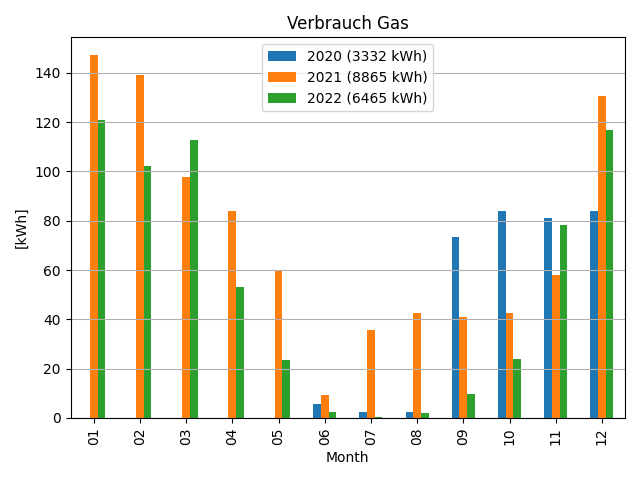
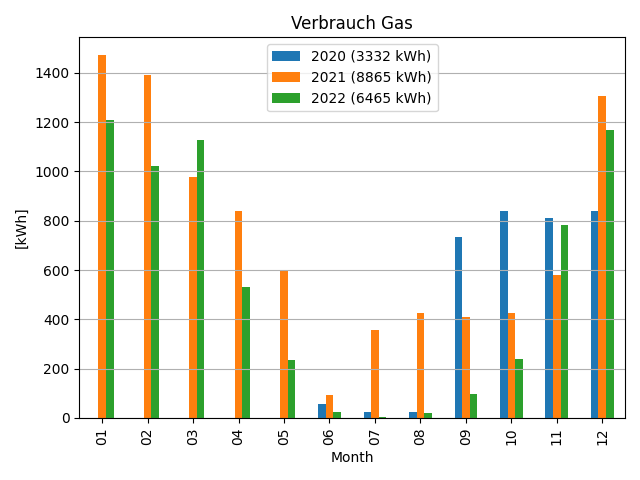
add

diff --git a/energie.py b/energie.py
@@ -1,4 +1,3 @@
-# auth.py
 from __future__ import print_function
 from googleapiclient.discovery import build 
 from google.oauth2 import service_account
@@ -14,9 +13,13 @@ class Energie:
         'https://www.googleapis.com/auth/spreadsheets'
         ]
         self.SAMPLE_SPREADSHEET_ID = '1AUd0lPyr_g6Ml3odYm1fr6nvLRcw8uPiSeZHxuT0N9E'
-        self.SAMPLE_RANGE_NAME = 'A1:D100'
+        self.RANGE_READINGS = 'A1:D100'
+        self.RANGE_PRICES_STROM = 'H2:J20'
+        self.RANGE_PRICES_GAS = 'L2:N20'
+        self.RANGE_PRICES_WASSER = 'P2:R20'
 
-        self.creds_file = os.path.join('.', 'credentials.json')
+        self.creds_file = os.path.join('.', 'energie', 'credentials.json')
+        #self.creds_file = os.path.join('.', 'credentials.json')
         self.plot_dir = os.path.join('.', 'plots')
 
         self.factor_m3_to_kWh = 10
@@ -37,36 +40,76 @@ class Energie:
 
         # Call the Sheets API
         sheet = spreadsheet_service.spreadsheets()
-        result_input = sheet.values().get(spreadsheetId=self.SAMPLE_SPREADSHEET_ID,
-                                    range=self.SAMPLE_RANGE_NAME).execute()
-        values_input = result_input.get('values', [])
+        result_readings = sheet.values().get(spreadsheetId=self.SAMPLE_SPREADSHEET_ID,
+                                    range=self.RANGE_READINGS).execute()
+        values_readings = result_readings.get('values', [])
+        result_prices_strom = sheet.values().get(spreadsheetId=self.SAMPLE_SPREADSHEET_ID,
+                                    range=self.RANGE_PRICES_STROM).execute()
+        values_prices_strom = result_prices_strom.get('values', [])
+        result_prices_gas = sheet.values().get(spreadsheetId=self.SAMPLE_SPREADSHEET_ID,
+                            range=self.RANGE_PRICES_GAS).execute()
+        values_prices_gas = result_prices_gas.get('values', [])
+        result_prices_wasser = sheet.values().get(spreadsheetId=self.SAMPLE_SPREADSHEET_ID,
+                            range=self.RANGE_PRICES_WASSER).execute()
+        values_prices_wasser = result_prices_wasser.get('values', [])
 
         # read as df
-        self.df = pd.DataFrame(values_input[1:], columns=values_input[0])
+        self.df_readings = pd.DataFrame(values_readings[1:], columns=values_readings[0])
+        self.df_prices_strom = pd.DataFrame(values_prices_strom[1:], columns=values_prices_strom[0])
+        self.df_prices_gas = pd.DataFrame(values_prices_gas[1:], columns=values_prices_gas[0])
+        self.df_prices_wasser = pd.DataFrame(values_prices_wasser[1:], columns=values_prices_wasser[0])
 
     def preprocessing(self):
 
         # add columns
-        self.df[['day', 'month', 'year']] = self.df['Datum'].str.split('.', 2, expand=True)
+        self.df_readings[['day', 'month', 'year']] = self.df_readings['Datum'].str.split('.', 2, expand=True)
+        self.df_prices_strom[['day', 'month', 'year']] = self.df_prices_strom['Datum'].str.split('.', 2, expand=True)
+        self.df_prices_gas[['day', 'month', 'year']] = self.df_prices_gas['Datum'].str.split('.', 2, expand=True)
+        self.df_prices_wasser[['day', 'month', 'year']] = self.df_prices_wasser['Datum'].str.split('.', 2, expand=True)
 
         # convert to datetime
-        self.df['datetime'] = pd.to_datetime(self.df[['year', 'month', 'day']])
+        self.df_readings['datetime'] = pd.to_datetime(self.df_readings[['year', 'month', 'day']])
+        self.df_prices_strom['datetime'] = pd.to_datetime(self.df_prices_strom[['year', 'month', 'day']])
+        self.df_prices_gas['datetime'] = pd.to_datetime(self.df_prices_gas[['year', 'month', 'day']])
+        self.df_prices_wasser['datetime'] = pd.to_datetime(self.df_prices_wasser[['year', 'month', 'day']])
 
         # change index
-        self.df.index = self.df['datetime']
+        self.df_readings.index = self.df_readings['datetime']
+        self.df_prices_strom.index = self.df_prices_strom['datetime']
+        self.df_prices_gas.index = self.df_prices_gas['datetime']
+        self.df_prices_wasser.index = self.df_prices_wasser['datetime']
 
         # resample to daily steps
-        self.df_interpol = self.df[['Strom', 'Wasser', 'Gas']].resample('D').mean()
+        self.df_interpol = self.df_readings[['Strom', 'Wasser', 'Gas']].resample('D').mean()
+        self.df_prices_strom_daily = self.df_prices_strom[['Arbeitspreis', 'Grundpreis']].resample('D').mean()
+        self.df_prices_gas_daily = self.df_prices_gas[['Arbeitspreis', 'Grundpreis']].resample('D').mean()
+        self.df_prices_wasser_daily = self.df_prices_wasser[['Arbeitspreis', 'Grundpreis']].resample('D').mean()
 
-        # interpolate data
+        # interpolate/pad data
         self.df_interpol[['Strom_interp', 'Wasser_interp', 'Gas_interp']] = self.df_interpol[['Strom', 'Wasser', 'Gas']].interpolate()
+        self.df_prices_strom_daily[['Arbeitspreis_daily', 'Grundpreis_daily']] = self.df_prices_strom_daily[['Arbeitspreis', 'Grundpreis']].pad()
+        self.df_prices_gas_daily[['Arbeitspreis_daily', 'Grundpreis_daily']] = self.df_prices_gas_daily[['Arbeitspreis', 'Grundpreis']].pad()
+        self.df_prices_wasser_daily[['Arbeitspreis_daily', 'Grundpreis_daily']] = self.df_prices_wasser_daily[['Arbeitspreis', 'Grundpreis']].pad()
 
         # first derivation to get daily consumption
         self.df_interpol[['Strom_interp_der', 'Wasser_interp_der', 'Gas_interp_der']] = self.df_interpol[['Strom_interp', 'Wasser_interp', 'Gas_interp']].diff()
 
         # monthly comsumption (on average)
         self.df_monthly = self.df_interpol.groupby(pd.PeriodIndex(self.df_interpol.index, freq="M"))[['Strom_interp_der', 'Wasser_interp_der', 'Gas_interp_der']].sum()
-        self.df_monthly.index = self.df_monthly.index.strftime('%Y-%m')
+        #self.df_monthly.index = self.df_monthly.index.strftime('%Y-%m')
+
+        # calculate monthly prices (on average)
+        self.df_monthly_prices_strom = self.df_prices_strom_daily.groupby(pd.PeriodIndex(self.df_prices_strom_daily.index, freq="M"))[['Arbeitspreis_daily', 'Grundpreis_daily']].mean()
+        self.df_monthly_prices_gas = self.df_prices_gas_daily.groupby(pd.PeriodIndex(self.df_prices_gas_daily.index, freq="M"))[['Arbeitspreis_daily', 'Grundpreis_daily']].mean()
+        self.df_monthly_prices_wasser = self.df_prices_wasser_daily.groupby(pd.PeriodIndex(self.df_prices_wasser_daily.index, freq="M"))[['Arbeitspreis_daily', 'Grundpreis_daily']].mean()
+
+        # join dfs (via index)
+        self.df_strom_final = self.df_monthly[['Strom_interp_der']].join(self.df_monthly_prices_strom)
+        self.df_strom_final['Kosten'] = self.df_strom_final['Strom_interp_der'] * self.df_strom_final['Arbeitspreis_daily'] + self.df_strom_final['Grundpreis_daily']
+        self.df_gas_final = self.df_monthly[['Gas_interp_der']].join(self.df_monthly_prices_gas)
+        self.df_gas_final['Kosten'] = self.df_gas_final['Gas_interp_der'] * self.df_gas_final['Arbeitspreis_daily'] + self.df_gas_final['Grundpreis_daily']
+        self.df_wasser_final = self.df_monthly[['Wasser_interp_der']].join(self.df_monthly_prices_wasser)
+        self.df_wasser_final['Kosten'] = self.df_wasser_final['Wasser_interp_der'] * self.df_wasser_final['Arbeitspreis_daily'] + self.df_wasser_final['Grundpreis_daily']                
 
     def plots_and_stats(self):
         
@@ -75,20 +118,33 @@ class Energie:
             os.makedirs(self.plot_dir)
 
         # get yearly stats
-        years = self.df['year'].unique()
+        years = self.df_readings['year'].unique()
         month_index = ['01', '02', '03', '04', '05', '06', '07', '08', '09', '10', '11', '12']
 
+        # verbrauch
         df_strom = pd.DataFrame(columns=years, index=month_index)
         df_gas = pd.DataFrame(columns=years, index=month_index)
         df_wasser = pd.DataFrame(columns=years, index=month_index)
-
         strom_legend = []
         gas_legend = []
         wasser_legend = []
 
+        # cost
+        df_strom_cost = pd.DataFrame(columns=years, index=month_index)
+        df_gas_cost = pd.DataFrame(columns=years, index=month_index)
+        df_wasser_cost = pd.DataFrame(columns=years, index=month_index)
+        strom_cost_legend = []
+        gas_cost_legend = []
+        wasser_cost_legend = []
+
+        # TODO!!!
         for year in years:
             mask = (self.df_monthly.index >= f'{year}-01') & (self.df_monthly.index <= f'{year}-12')
             data_year = self.df_monthly.loc[mask]
+
+            # m3 to kWh
+            data_year['Gas_interp_der'] = data_year['Gas_interp_der'] * self.factor_m3_to_kWh 
+            data_year['Gas_Cost'] = data_year['Gas_Cost'] * self.factor_m3_to_kWh
 
             # change index (remove year)
             idx_new = []
@@ -105,12 +161,17 @@ class Energie:
             df_strom[year] = data_year['Strom_interp_der']
             df_gas[year] = data_year['Gas_interp_der']
             df_wasser[year] = data_year['Wasser_interp_der']
+            df_strom_cost[year] = data_year['Strom_Cost']
+            df_gas_cost[year] = data_year['Gas_Cost']
+            df_wasser_cost[year] = data_year['Wasser_Cost']
 
             # legend
             strom_legend.append(f"{year} ({data_year['Strom_interp_der'].sum():.0f} kWh)")
-            gas_legend.append(f"{year} ({data_year['Gas_interp_der'].sum() * self.factor_m3_to_kWh:.0f} kWh)")
+            gas_legend.append(f"{year} ({data_year['Gas_interp_der'].sum():.0f} kWh)")
             wasser_legend.append(f"{year} ({data_year['Wasser_interp_der'].sum():.0f} m3)")
-            
+            strom_cost_legend.append(f"{year} ({data_year['Strom_Cost'].sum():.0f} Euro)")
+            gas_cost_legend.append(f"{year} ({data_year['Gas_Cost'].sum():.0f} Euro)")
+            wasser_cost_legend.append(f"{year} ({data_year['Wasser_Cost'].sum():.0f} Euro)")
             
         # Plots
         # Strom
@@ -124,6 +185,17 @@ class Energie:
         plt.savefig(os.path.join(self.plot_dir, 'strom_verbrauch.png'))
         plt.clf()
 
+        # Strom Kosten
+        df_strom_cost.plot.bar()
+        plt.title('Kosten Strom (ohne Grundgebühr)')
+        plt.xlabel('Month')
+        plt.ylabel('[Euro]')
+        plt.grid(axis='y')
+        plt.legend(strom_cost_legend)
+        plt.tight_layout()
+        plt.savefig(os.path.join(self.plot_dir, 'strom_kosten.png'))
+        plt.clf()
+
         # Gas
         df_gas.plot.bar()
         plt.title('Verbrauch Gas')
@@ -133,6 +205,17 @@ class Energie:
         plt.legend(gas_legend)
         plt.tight_layout()
         plt.savefig(os.path.join(self.plot_dir, 'gas_verbrauch.png'))
+        plt.clf()
+
+        # Gas Kosten
+        df_gas_cost.plot.bar()
+        plt.title('Kosten Gas (ohne Grundgebühr)')
+        plt.xlabel('Month')
+        plt.ylabel('[Euro]')
+        plt.grid(axis='y')
+        plt.legend(gas_cost_legend)
+        plt.tight_layout()
+        plt.savefig(os.path.join(self.plot_dir, 'gas_kosten.png'))
         plt.clf()
 
         # Wasser
@@ -145,6 +228,17 @@ class Energie:
         plt.tight_layout()
         plt.savefig(os.path.join(self.plot_dir, 'wasser_verbrauch.png'))
         plt.clf()
+
+        # Wasser Kosten
+        df_wasser_cost.plot.bar()
+        plt.title('Kosten Wasser (ohne Grundgebühr)')
+        plt.xlabel('Month')
+        plt.ylabel('[Euro]')
+        plt.grid(axis='y')
+        plt.legend(wasser_cost_legend)
+        plt.tight_layout()
+        plt.savefig(os.path.join(self.plot_dir, 'wasser_kosten.png'))
+        plt.clf()        
 
         # Control Plots (Ablesungen)
         # Strom

diff --git a/README.md b/README.md
@@ -10,6 +10,37 @@ python3 energie.py
 ## Input
 Data is retrieved from Google Spreadsheets via Google API.
 
+Example:
+```
+Datum	Strom	Gas	Wasser
+31.05.2020	39184	1846.15	329
+10.06.2020	39256	1849.76	333
+18.06.2020	39300	1850.79	335
+24.06.2020	39344	1851.82	337
+
+Preise [€]			
+	Strom		
+Datum	Arbeitspreis	Grundpreis	
+31.05.2020	0.26	26.83	Grünwelt Energie
+25.06.2021	0.32	11.83	EnBW
+29.06.2021	0.3	19.9	Süwag
+28.06.2022	0.4	16.9	Vattenfall
+31.12.2023	0	0	
+
+	Gas		
+Datum	Arbeitspreis	Grundpreis	
+31.05.2020	0.06	5	
+25.06.2021	0.07	5.5	EnBW
+29.06.2021	0.07	15.88	
+28.06.2022	0.15	12.5	Vattenfall
+
+	Wasser	
+Datum	Arbeitspreis	Grundpreis
+31.05.2020	1.96	5
+01.01.2021	2.01	4.9
+01.01.2022	2.01	4.9
+```
+
 Useful Links:
 - [Link to Google Developers](https://developers.google.com/sheets/api/quickstart/python)
 - [Link to Tutorial](https://medium.com/analytics-vidhya/how-to-read-and-write-data-to-google-spreadsheet-using-python-ebf54d51a72c)
